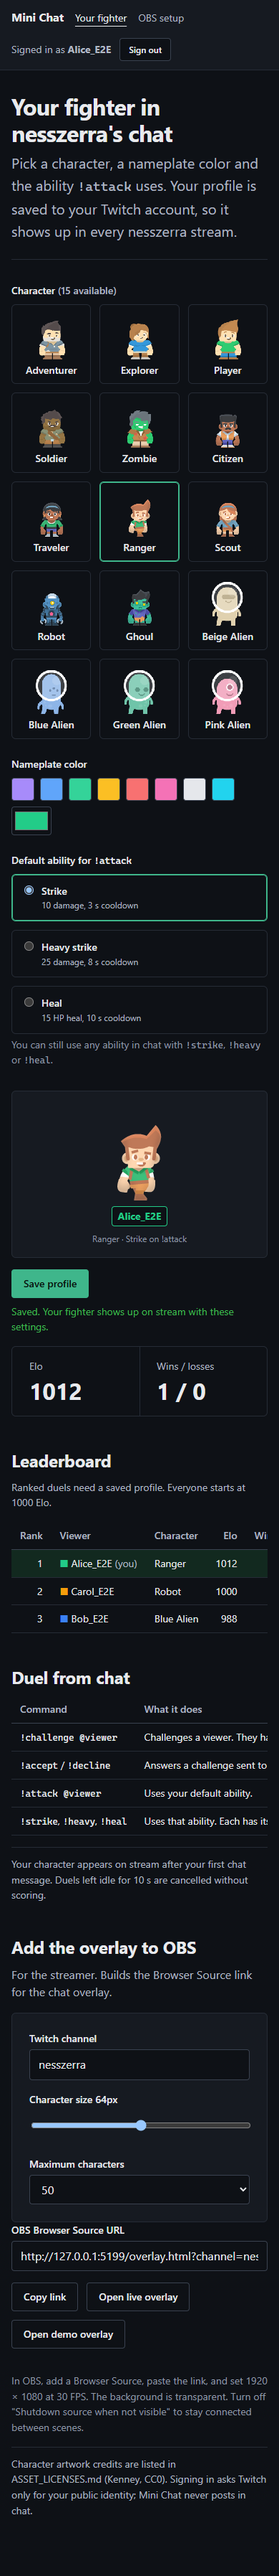
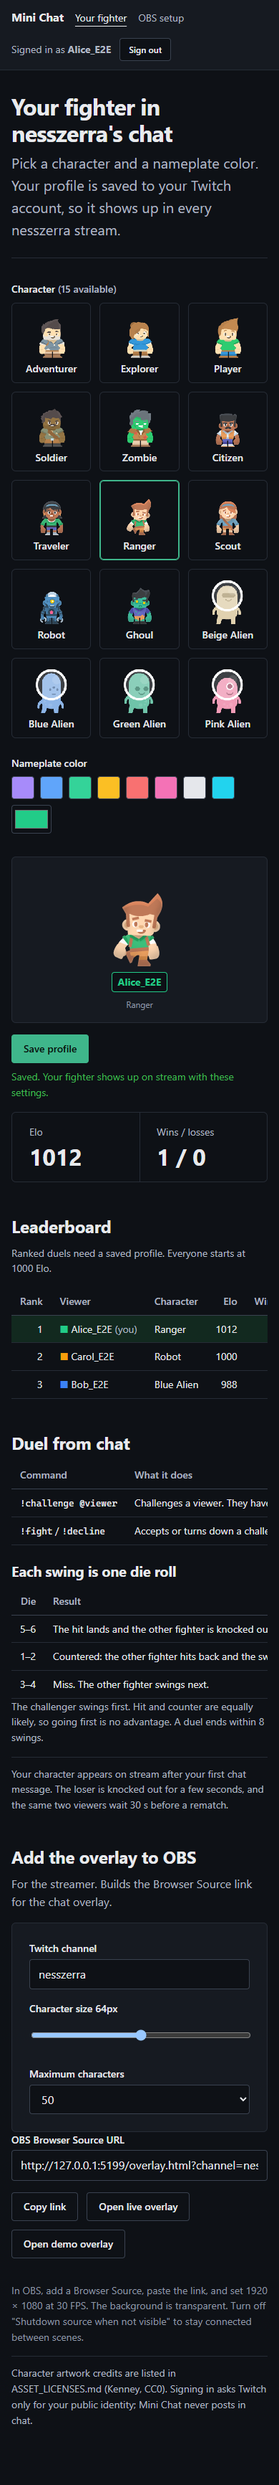
Remove the attack commands: duels are !challenge and !fight; viewer page explains the dice

diff --git a/index.html b/index.html
@@ -1,7 +1,7 @@
 <!doctype html>
 <html lang="en"><head><meta charset="UTF-8"><meta name="viewport" content="width=device-width,initial-scale=1">
 <title>Mini Chat — your fighter on nesszerra</title>
-<meta name="description" content="Pick your Mini Chat character, nameplate color and default ability for the nesszerra Twitch channel.">
+<meta name="description" content="Pick your Mini Chat character and nameplate color for the nesszerra Twitch channel.">
 <link rel="stylesheet" href="/dashboard.css" data-design></head>
 <body>
 <header class="topbar"><div class="topbar-inner">
@@ -12,7 +12,7 @@
 <main class="page">
   <header class="page-header">
     <h1>Your fighter in nesszerra's chat</h1>
-    <p class="subtitle">Pick a character, a nameplate color and the ability <code>!attack</code> uses. Your profile is saved to your Twitch account, so it shows up in every nesszerra stream.</p>
+    <p class="subtitle">Pick a character and a nameplate color. Your profile is saved to your Twitch account, so it shows up in every nesszerra stream.</p>
   </header>
 
   <p class="callout" id="signin-note" hidden></p>
@@ -28,15 +28,6 @@
         <div class="swatches" id="swatches">
           <label class="sr-only" for="color">Custom nameplate color</label><input type="color" id="color" value="#a78bfa">
         </div>
-      </fieldset>
-      <fieldset>
-        <legend>Default ability for <code>!attack</code></legend>
-        <div class="ability-grid" id="abilities">
-          <label><input type="radio" name="ability" value="strike" checked><span><span class="name">Strike</span><span class="detail" data-ability="strike">10 damage, 3 s cooldown</span></span></label>
-          <label><input type="radio" name="ability" value="heavy"><span><span class="name">Heavy strike</span><span class="detail" data-ability="heavy">25 damage, 8 s cooldown</span></span></label>
-          <label><input type="radio" name="ability" value="heal"><span><span class="name">Heal</span><span class="detail" data-ability="heal">15 HP heal, 10 s cooldown</span></span></label>
-        </div>
-        <p class="hint">You can still use any ability in chat with <code>!strike</code>, <code>!heavy</code> or <code>!heal</code>.</p>
       </fieldset>
     </div>
     <aside class="stack" aria-label="Preview and save">
@@ -72,12 +63,20 @@
       <thead><tr><th>Command</th><th>What it does</th></tr></thead>
       <tbody>
         <tr><td><code>!challenge @viewer</code></td><td>Challenges a viewer. They have <span id="cmd-timeout">30 s</span> to reply.</td></tr>
-        <tr><td><code>!accept</code> / <code>!decline</code></td><td>Answers a challenge sent to you.</td></tr>
-        <tr><td><code>!attack @viewer</code></td><td>Uses your default ability.</td></tr>
-        <tr><td><code>!strike</code>, <code>!heavy</code>, <code>!heal</code></td><td>Uses that ability. Each has its own cooldown, plus <span id="cmd-shared">1 s</span> between any two actions.</td></tr>
+        <tr><td><code>!fight</code> / <code>!decline</code></td><td>Accepts or turns down a challenge sent to you. Accepting starts the duel right away.</td></tr>
       </tbody>
     </table></div>
-    <p class="caveat">Your character appears on stream after your first chat message. Duels left idle for <span id="cmd-idle">60 s</span> are cancelled without scoring.</p>
+    <h3>Each swing is one die roll</h3>
+    <div class="table-wrap"><table class="data">
+      <thead><tr><th class="num">Die</th><th>Result</th></tr></thead>
+      <tbody>
+        <tr><td class="num">5–6</td><td>The hit lands and the other fighter is knocked out.</td></tr>
+        <tr><td class="num">1–2</td><td>Countered: the other fighter hits back and the swinger is knocked out.</td></tr>
+        <tr><td class="num">3–4</td><td>Miss. The other fighter swings next.</td></tr>
+      </tbody>
+    </table></div>
+    <p class="muted small">The challenger swings first. Hit and counter are equally likely, so going first is no advantage. A duel ends within 8 swings.</p>
+    <p class="caveat">Your character appears on stream after your first chat message. The loser is knocked out for a few seconds, and the same two viewers wait <span id="cmd-rematch">30 s</span> before a rematch.</p>
   </section>
 
   <section class="section" id="obs-setup" aria-labelledby="obs-title">

diff --git a/src/dashboard.js b/src/dashboard.js
@@ -1,6 +1,6 @@
-// Viewer dashboard ("/"): sign-in state, character picker with live preview, nameplate color, default ability,
+// Viewer dashboard ("/"): sign-in state, character picker with live preview, nameplate color,
 // profile save and a compact leaderboard. Talks only to the routes in CONTRACTS.md section 2.
-import { api, errorText, h, $, setStatus, renderWho, signOut, addSprite, abilityDetail, seconds, CHANNEL, DEFAULT_COLOR, DEFAULT_ABILITIES, ABILITY_NAMES } from "./ui.js";
+import { api, errorText, h, $, setStatus, renderWho, signOut, addSprite, seconds, CHANNEL, DEFAULT_COLOR } from "./ui.js";
 
 const SWATCHES = ["#a78bfa", "#60a5fa", "#34d399", "#fbbf24", "#f87171", "#f472b6", "#e5e7eb", "#22d3ee"];
 const form = $("#profile-form"), saveBtn = $("#save"), saveSignin = $("#save-signin"), status = $("#save-status");
@@ -11,9 +11,9 @@ const preview = addSprite($("#preview"), null, { anim: "walk" });
 const current = () => ({
   avatar: form.querySelector("input[name=character]:checked")?.value || state.catalog[0]?.id || "",
   color: colorInput.value.toLowerCase(),
-  defaultAbility: form.querySelector("input[name=ability]:checked")?.value || "strike",
+  defaultAbility: state.profile?.defaultAbility || "strike",   // only used by the HP fight; quick duels ignore it
 });
-const dirty = () => { const c = current(), s = state.saved; return !s || c.avatar !== s.avatar || c.color !== s.color || c.defaultAbility !== s.defaultAbility; };
+const dirty = () => { const c = current(), s = state.saved; return !s || c.avatar !== s.avatar || c.color !== s.color; };
 
 function renderCharacters() {
   const box = $("#characters");
@@ -48,7 +48,7 @@ function update() {
   nameplate.textContent = state.session?.user?.displayName || "you";
   nameplate.style.color = c.color;
   nameplate.style.borderColor = c.color;
-  $("#preview-caption").textContent = entry ? (entry.label || entry.id) + " · " + ABILITY_NAMES[c.defaultAbility] + " on !attack" : "";
+  $("#preview-caption").textContent = entry ? entry.label || entry.id : "";
   for (const s of document.querySelectorAll(".swatch")) s.setAttribute("aria-pressed", String(s.dataset.color === c.color));
   if (state.session?.user && state.saved) setStatus(status, dirty() ? "You have unsaved changes." : "Saved. Your fighter shows up on stream with these settings.", dirty() ? "" : "ok");
 }
@@ -58,17 +58,12 @@ function applyProfile(p) {
   const radio = avatar && document.getElementById("char-" + avatar);
   if (radio) radio.checked = true;
   colorInput.value = /^#[0-9a-f]{6}$/i.test(p?.color || "") ? p.color.toLowerCase() : DEFAULT_COLOR;
-  const ability = form.querySelector('input[name=ability][value="' + (["strike", "heavy", "heal"].includes(p?.defaultAbility) ? p.defaultAbility : "strike") + '"]');
-  ability.checked = true;
 }
 
-function renderAbilities() {
-  const abilities = state.config?.abilities || DEFAULT_ABILITIES;
-  for (const node of document.querySelectorAll("[data-ability]")) node.textContent = abilityDetail(node.dataset.ability, abilities[node.dataset.ability]);
+function renderCommands() {
   if (state.config) {
     $("#cmd-timeout").textContent = seconds(state.config.challengeTimeoutMs);
-    $("#cmd-shared").textContent = seconds(state.config.sharedCooldownMs);
-    $("#cmd-idle").textContent = seconds(state.config.inactivityMs);
+    $("#cmd-rematch").textContent = seconds(state.config.rematchDelayMs);
     $("#lb-note").textContent = "Ranked duels need a saved profile. Everyone starts at " + state.config.initialElo + " Elo.";
   }
 }
@@ -136,7 +131,7 @@ async function init() {
     if (fallback.ok && Array.isArray(fallback.data)) state.catalog = fallback.data;
   }
   state.config = live.ok ? live.data?.config : null;
-  renderCharacters(); renderAbilities();
+  renderCharacters(); renderCommands();
   if (state.session?.user) {
     const [profile, access] = await Promise.all([api("/api/profile/" + CHANNEL), api("/api/access/" + CHANNEL)]);
     state.profile = profile.ok ? profile.data : null;

diff --git a/server/streamelements.js b/server/streamelements.js
@@ -3,8 +3,8 @@
 // The trigger word lives only in StreamElements, so commands can be renamed there freely.
 export const SE_PATH = /^\/api\/se\/([a-z0-9_]{1,25})\/([a-z]{1,16})$/;
 export const SE_SUBSCRIPTION_ID = 'se-streamelements';   // marks StreamElements as the chat source in state.chat
-export const SE_ACTIONS = ['challenge', 'accept', 'decline', 'attack', 'strike', 'heavy', 'heal'];
-export const DEFAULT_SE_NAMES = { challenge: '!challenge', accept: '!fight', decline: '!decline', attack: '!attack', strike: '!strike', heavy: '!heavy', heal: '!heal' };
+export const SE_ACTIONS = ['challenge', 'accept', 'decline'];   // quick duels need no attack commands
+export const DEFAULT_SE_NAMES = { challenge: '!challenge', accept: '!fight', decline: '!decline' };
 const MAX_REPLY = 380;   // StreamElements cuts responses at 400 bytes
 
 const reply = (body, status = 200) => new Response(String(body).slice(0, MAX_REPLY), { status, headers: { 'Content-Type': 'text/plain; charset=utf-8', 'Cache-Control': 'no-store' } });
@@ -16,7 +16,7 @@ export async function handleStreamElements(request, env, { url, origin, channels
   if (!m) return reply('Unknown command', 404);
   const [, channel, action] = m;
   if (!channels.includes(channel)) return reply('Mini Chat is not enabled for this channel', 404);
-  if (!SE_ACTIONS.includes(action)) return reply('Unknown command', 404);
+  if (!SE_ACTIONS.includes(action)) return reply('Mini Chat: attack commands are gone. Duels are !challenge @name, then !fight.');   // old !attack/!strike/!heavy/!heal
   const q = name => (url.searchParams.get(name) || '').trim();
   const key = q('k');
   if (!key || key.length > 128) return reply('Mini Chat: missing key. Copy the commands again from the admin page.');
@@ -67,7 +67,7 @@ export function seReplyText({ result, state, actorId, action, target, names = {}
       const end = ` ${nameOf(state, result.winnerId)} knocks out ${nameOf(state, result.loserId)}!` + (w && l ? ` Elo: ${nameOf(state, result.winnerId)} ${w.elo}, ${nameOf(state, result.loserId)} ${l.elo}.` : '');
       return (swings.length > 220 ? swings.slice(0, 217) + '...' : swings) + end;
     }
-    if (action === 'accept' || reason === 'duel_started') return `Duel on: ${nameOf(state, duel?.a)} vs ${nameOf(state, duel?.b)}. Use ${n('attack')}, ${n('strike')}, ${n('heavy')} or ${n('heal')}.`;
+    if (action === 'accept' || reason === 'duel_started') return `Duel on: ${nameOf(state, duel?.a)} vs ${nameOf(state, duel?.b)}.`;
     if (action === 'challenge') return `${me} challenges @${target} to a duel. @${target}, type ${n('accept')} (or ${n('challenge')} @${me}) or ${n('decline')} within ${secs(state.config.challengeTimeoutMs || 30000)} s.`;
     if (reason === 'challenge_declined') return `${me} declined the duel.`;
     if (reason === 'duel_completed') {
@@ -95,7 +95,6 @@ export function seReplyText({ result, state, actorId, action, target, names = {}
     case 'challenge_not_found': return `${me}, you have no pending challenge.`;
     case 'not_in_active_duel': case 'not_in_duel': return `${me}, you're not in a duel. Use ${n('challenge')} @name`;
     case 'wrong_opponent': return `${me}, that's not your opponent.`;
-    case 'cooldown': return `${me}, cooldown: ${secs((result.retryAt || now) - now)} s.`;
     case 'duplicate': return '';
     case 'active_player_cap': return 'Mini Chat: the arena is full.';
     default: return `Mini Chat: couldn't do that (${reason || 'error'}).`;

diff --git a/admin/index.html b/admin/index.html
@@ -125,7 +125,7 @@
         </li>
         <li><strong>If a command with that name already exists</strong> (StreamElements says the name is taken): find it in the Custom commands list, click its edit (pencil) button, select everything in Reply, delete it, paste the copied reply, and click Save. Default commands can't be edited; turn them off or pick another name here.</li>
         <li><strong>Click Use StreamElements</strong> below once all 7 are added.</li>
-        <li><strong>Test it:</strong> type <code>!strike</code> in your chat. The bot should answer "you're not in a duel". If it says "wrong key", copy the reply again.</li>
+        <li><strong>Test it:</strong> type <code>!decline</code> in your chat. The bot should answer "you have no pending challenge". If it says "wrong key", copy the reply again.</li>
       </ol>
       <p class="caveat small">Add commands in the dashboard, not with <code>!command add</code> in chat: the reply contains the key, and chat would show it to every viewer.</p>
       <div class="toolbar"><button class="btn" id="use-se" type="button">Use StreamElements</button><button class="btn" id="save-se-names" type="button">Save names</button><button class="btn" id="rotate-se" type="button">New key</button></div>

diff --git a/server/channel.js b/server/channel.js
@@ -524,7 +524,8 @@ export class ChannelRoom extends DurableObject {
     const now = Date.now();
     const names = settings.names;
     const state0 = this.readState(channel);
-    if (!action || !userId || !username) return json({ reply: "Mini Chat: this command is missing sender details. Copy it again from the admin page." });
+    if (!action) return json({ reply: "Mini Chat: attack commands are gone. Duels are !challenge @name, then !fight." });
+    if (!userId || !username) return json({ reply: "Mini Chat: this command is missing sender details. Copy it again from the admin page." });
     if (!state0.chat.connected || state0.chat.subscriptionId !== SE_SUBSCRIPTION_ID) return json({ reply: seReplyText({ result: { ok: false, reason: "chat_offline" }, state: state0, actorId: userId, action, target, names, origin, now }) });
     if (action === "challenge" && !target) return json({ reply: seReplyText({ result: { ok: false, reason: "target_required" }, state: state0, actorId: userId, action, target, names, origin, now }) });
     const messageId = "se:" + (String(input.messageId || "").slice(0, 60) || randomHex().slice(0, 24));

diff --git a/server/game.js b/server/game.js
@@ -666,10 +666,11 @@ function applyAdmin(state, event, now) {
 
 export function parseGameCommand(text) {
   if (typeof text !== "string") return null;
-  const match = /^!(duel|challenge|accept|decline|attack|strike|heavy|heal)(?:\s+(@?[a-z0-9_]{1,25}))?\s*$/i.exec(text.trim());
+  const match = /^!(duel|challenge|accept|fight|decline|attack|strike|heavy|heal)(?:\s+(@?[a-z0-9_]{1,25}))?\s*$/i.exec(text.trim());
   if (!match) return null;
   let action = match[1].toLowerCase();
   if (action === "challenge") action = "duel";
+  if (action === "fight") action = "accept";
   const target = match[2] ? normalizeUsername(match[2]) : "";
   if (action === "duel" && !target) return null;
   return { action, target };

diff --git a/README.md b/README.md
@@ -28,8 +28,8 @@ The working tree also holds v2. It adds:
   signs in with `/auth/login?connect=1` and clicks Connect chat on `/admin/` (TWITCH_SETUP.md).
 
 Chat commands for v2 duels:
-- `!challenge @viewer`, then `!accept` or `!decline` (`!fight` when chat goes through StreamElements, whose Duel module owns `!accept`).
-- `!attack`, `!strike`, `!heavy`, `!heal`.
+- `!challenge @viewer`, then `!fight` (or `!accept`) or `!decline`. Use `!fight` with StreamElements, whose Duel module owns `!accept`.
+- Accepting rolls the duel at once: each swing is a d6 (5-6 hit lands, 1-2 countered, 3-4 miss and the other fighter swings).
 
 Rules and routes are in CONTRACTS.md. The plan and the open gaps are in HANDOFF.md.
 
